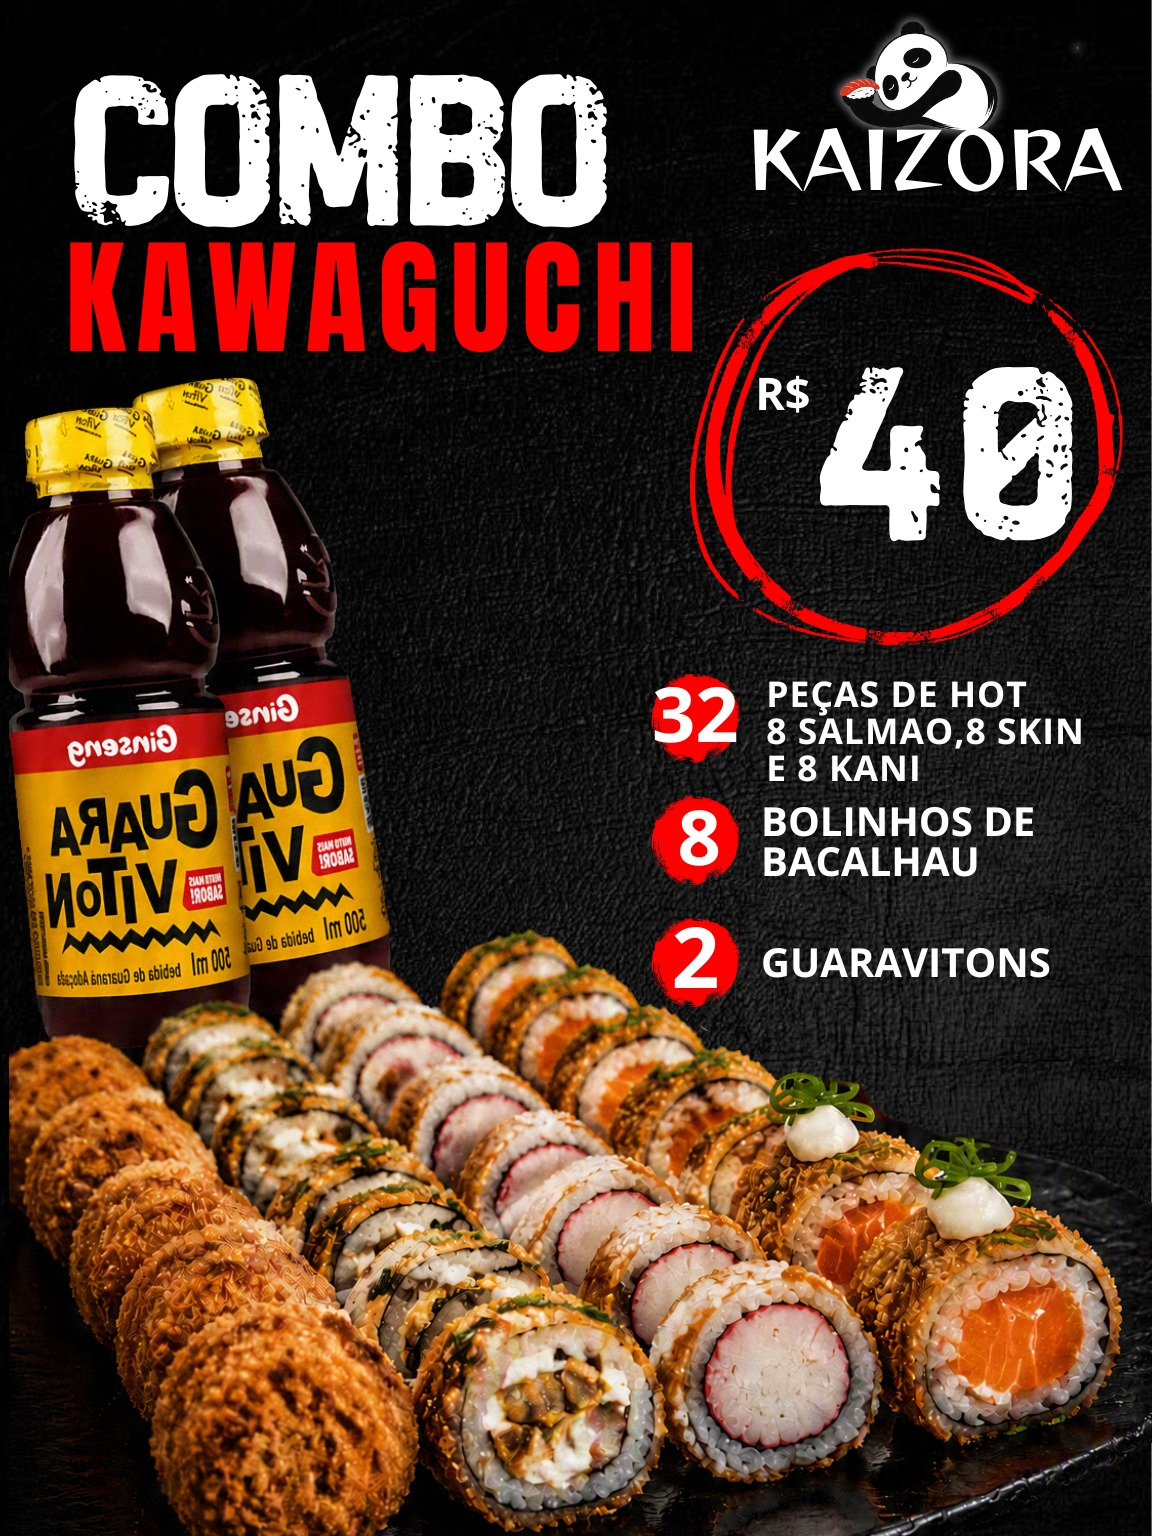
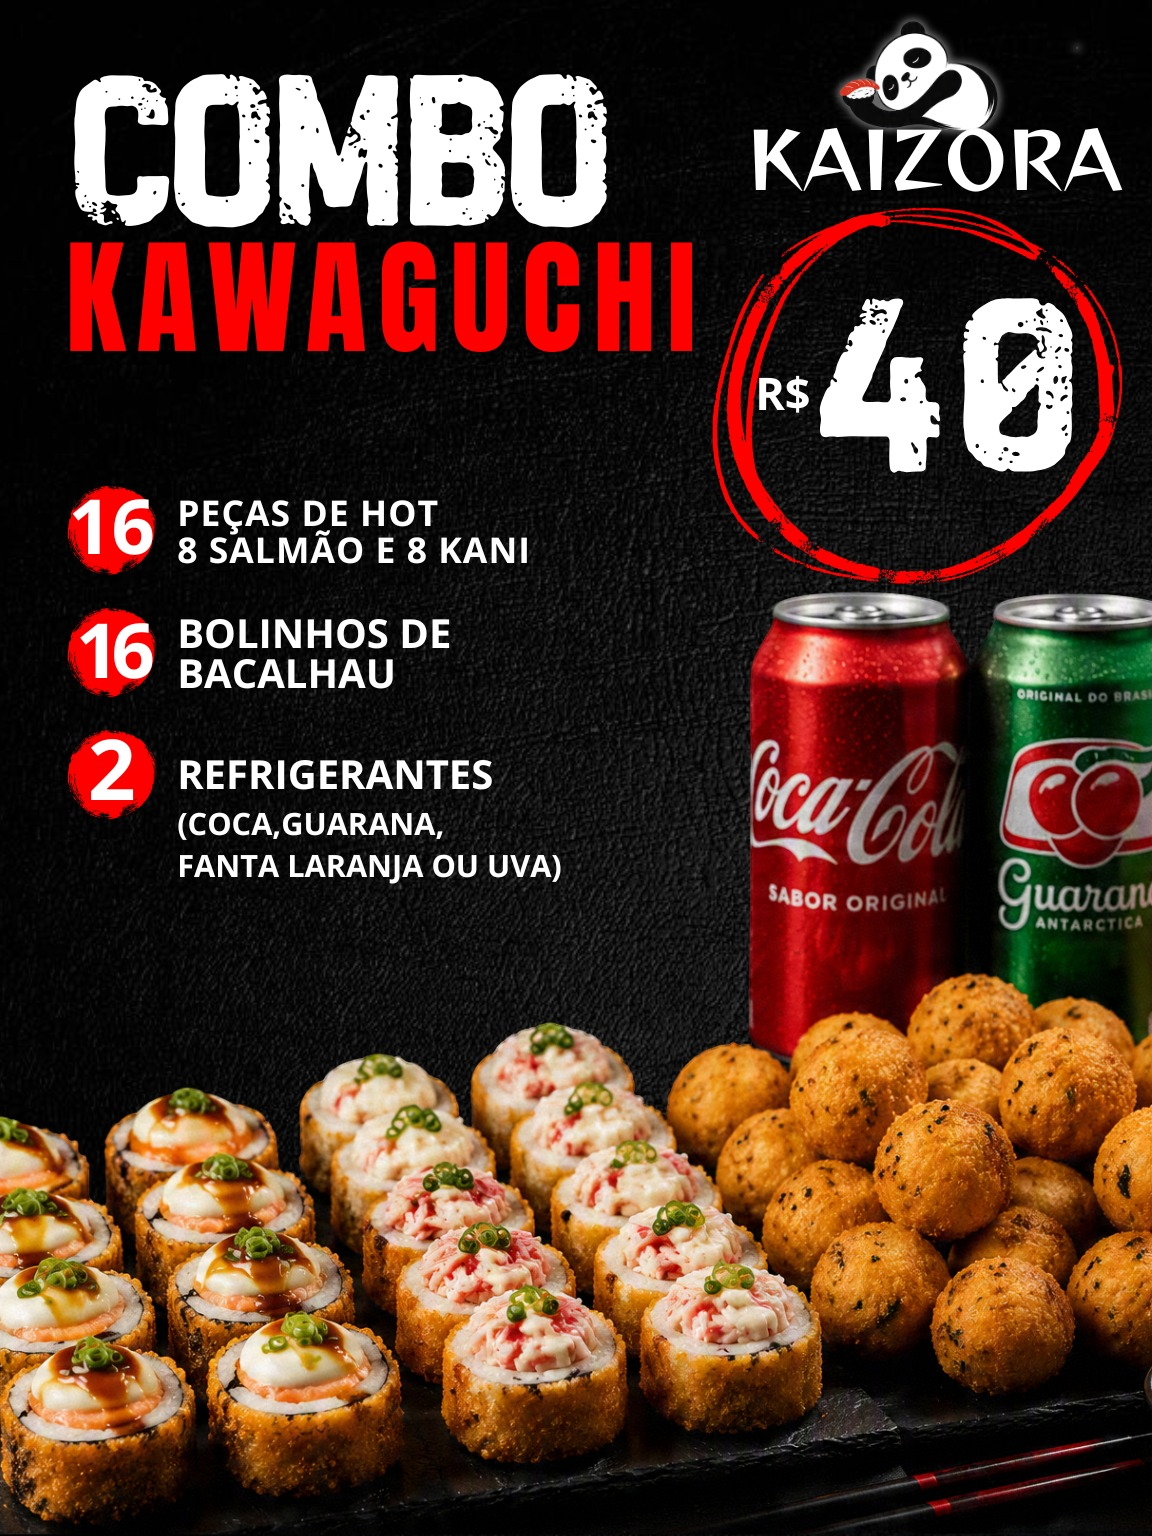
New img for combos

diff --git a/index.html b/index.html
@@ -2061,9 +2061,9 @@ const productsBase = [
 
 const combosBase = [
 { name: 'Mega Combo Hot Roll', description: 'Hot Roll até não dar mais.', descricaoModal: '32 Hot Roll Philadelphia.', price: 40, image: 'Imagens/Mega Combo Hot Roll.jpg', esgotado: false, hotHossoMin8: true },
-{ name: 'Combo Osaka', description: 'Um combo especial para momentos a dois.', descricaoModal: '2 Temakis Fritos de Salmão, 16 Hot Roll Philadelphia e 2 Coca-Cola Lata 350ml.', price: 65, image: 'Imagens/Combo Osaka.jpg', esgotado: false, hotHossoMin8: true, temakiFrito: true },
-{ name: 'Combo Shanghai', description: 'Um combo completo para se deliciar.', descricaoModal: '1 Yakisoba (Frango, Legumes ou calabresa), 8 Hot Roll Philadelphia e 1 Guaravita.', price: 35, image: 'Imagens/Combo Shangai.jpg', esgotado: false, hotHossoMin8: true, temakiFrito: false },
-{ name: 'Combo Kawaguchi', description: '32 peças de puro sabor', descricaoModal: '8 Hot roll de salmão, 8 Hot Skin, 8 Hot Kani, 8 bolinho de bacalhau e 2 Guaraviton.', price: 40, image: 'Imagens/Combo Kawaguchi.jpg', esgotado: false, hotHossoMin8: true, temakiFrito: false },
+{ name: 'Combo Osaka', description: '1 Temaki Frito de Salmão, 16 Hot Roll Philadelphia, 8 Hot Skin e 1 refrigerante Lata 350ml.', descricaoModal: '1 Temaki Frito de Salmão, 16 Hot Roll Philadelphia, 8 Hot Skin e 1 refrigerante Lata 350ml.', price: 65, image: 'Imagens/Combo Osaka.jpg', esgotado: false, hotHossoMin8: true, temakiFrito: true },
+{ name: 'Combo Shanghai', description: 'Um combo completo para se deliciar.', descricaoModal: '1 Yakisoba (Frango, Legumes ou calabresa), 8 Hot Roll Kani e 1 Guaravita.', price: 35, image: 'Imagens/Combo Shangai.jpg', esgotado: false, hotHossoMin8: true, temakiFrito: false },
+{ name: 'Combo Kawaguchi', description: '32 unidades de puro sabor', descricaoModal: '8 Hot roll de salmão, 8 Hot Kani, 16 bolinho de bacalhau e 2 refrigerantes Lata 350ml.', price: 40, image: 'Imagens/Combo Kawaguchi.jpg', esgotado: false, hotHossoMin8: true, temakiFrito: false },
 //{ name: 'Combo Individual', description: 'Uma seleção para as noites de muita fome.', descricaoModal: '1 Temaki Frito, 8 Hot Philadelphia, 2 Harumaki de Doce de Leite.', price: 40, image: 'Imagens/Combo Individual.png', esgotado: false, hotHossoMin8: true, temakiFrito: true },
 //{ name: 'Combo de Frios', description: 'Uma seleção de peças frias saborosas.', descricaoModal: '18 Hossomaki Skin, 18 Hossomaki Kani e Salada Sunomono.', price: 30, image: 'Imagens/Combo de Frios.png', esgotado: false, hotHossoMin8: true },
 //{ name: 'Combo Premium', description: 'Combo completo pensado para compartilhar.', descricaoModal: '24 Hot Philadelphia Salmão, 12 Hot Skin e 6 Lula à Dorê.', price: 75, image: 'Imagens/Combo Premium.png', esgotado: false, hotHossoMin8: true },
